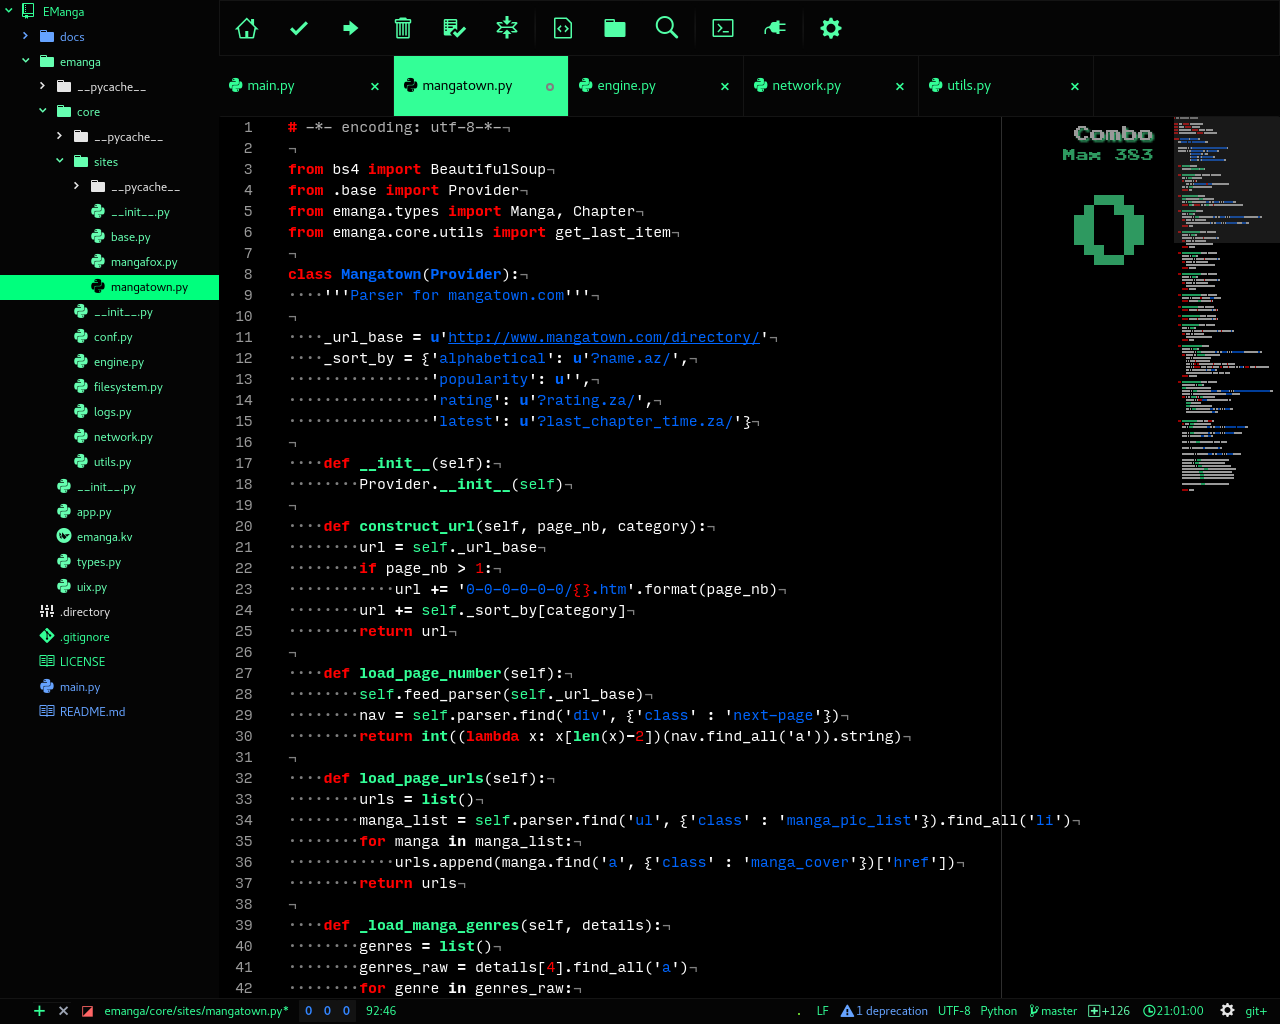
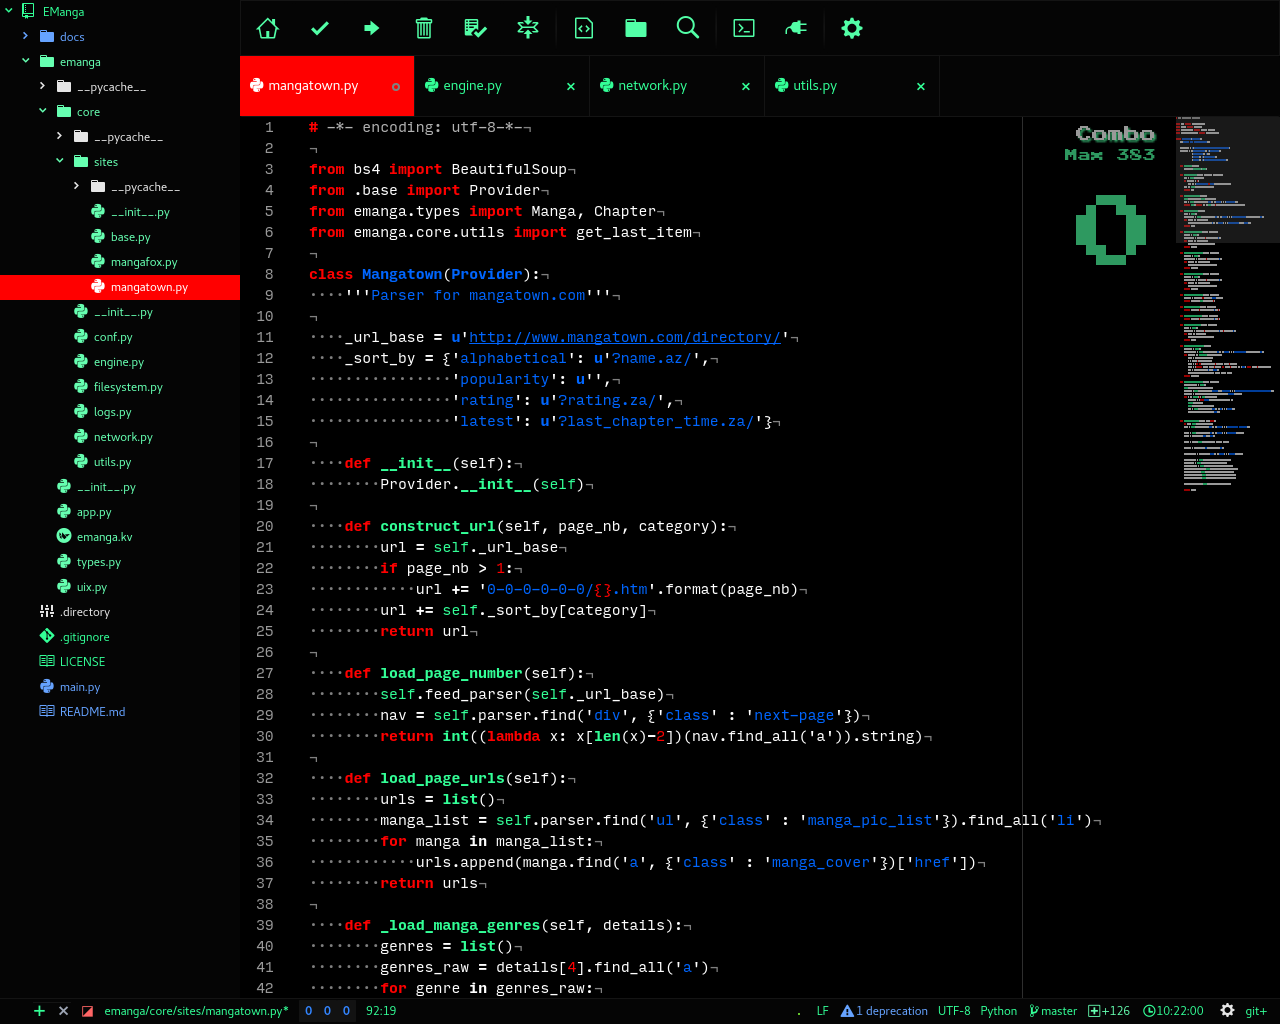
1.1.0b

diff --git a/styles/ui-variables.less b/styles/ui-variables.less
@@ -29,7 +29,7 @@
 @text-color:           @light-green;
 @text-color-subtle:    @very-light-gray;
 @text-color-highlight: @light-blue;
-@text-color-selected:  black;
+@text-color-selected:  white;
 
 @text-color-info:    gray;
 @text-color-success: @very-light-green;
@@ -43,7 +43,7 @@
 @background-color-error:   hsl(0,    70%, 50%);
 
 @background-color-highlight: lighten(@base-background-color, 5%);
-@background-color-selected:  @green;
+@background-color-selected:  red;
 @app-background-color:       darken(@base-background-color, 5%);
 
 // Base colors
@@ -74,10 +74,9 @@
 @button-background-color-selected: @button-background-color-hover;
 @button-border-color:              @base-border-color;
 
-@tab-bar-background-color:    @green;
 @tab-bar-border-color:        @base-border-color;
 @tab-background-color:        @base-background-color;
-@tab-background-color-active: lighten(@tab-bar-background-color, 10%);
+@tab-background-color-active: red;
 @tab-border-color:            @base-border-color;
 
 @tree-view-background-color: @base-background-color;

diff --git a/styles/editor.less b/styles/editor.less
@@ -15,13 +15,10 @@ atom-text-editor[mini] {
     background-color: darken(@input-background-color, 5%);
   }
 
-  &, // <-- Deprecated. The `&,` can be removed once the Shadow DOM can't be turned off in the settings.
-  &::shadow {
-    .placeholder-text {
-      color: @text-color-subtle;
-    }
-    .selection .region {
-      background-color: @background-color-selected;
-    }
+  .placeholder-text {
+    color: @text-color-subtle;
+  }
+  .selection .region {
+    background-color: @background-color-selected;
   }
 }

diff --git a/styles/tabs.less b/styles/tabs.less
@@ -36,10 +36,10 @@
 
     // Close Icon (the X) -------------------
     .close-icon:hover {
-      color: @text-color-selected;
+      color: red;
     }
     &.active .close-icon:hover {
-      color: red;
+      color: @light-blue;
     }
 
 

diff --git a/CHANGELOG.md b/CHANGELOG.md
@@ -1,2 +1,9 @@
 ## 1.0.0b - First Release
 * Just created the theme on the fly.
+
+## 1.1.0b
+* Harmonize colors throughout all the theme
+* Fix graphic bug that causes selected tree view items to be invisible
+* Change selected item text color to white
+* Change selected item background color to red
+* Remove deprecated pseudo-selectors
